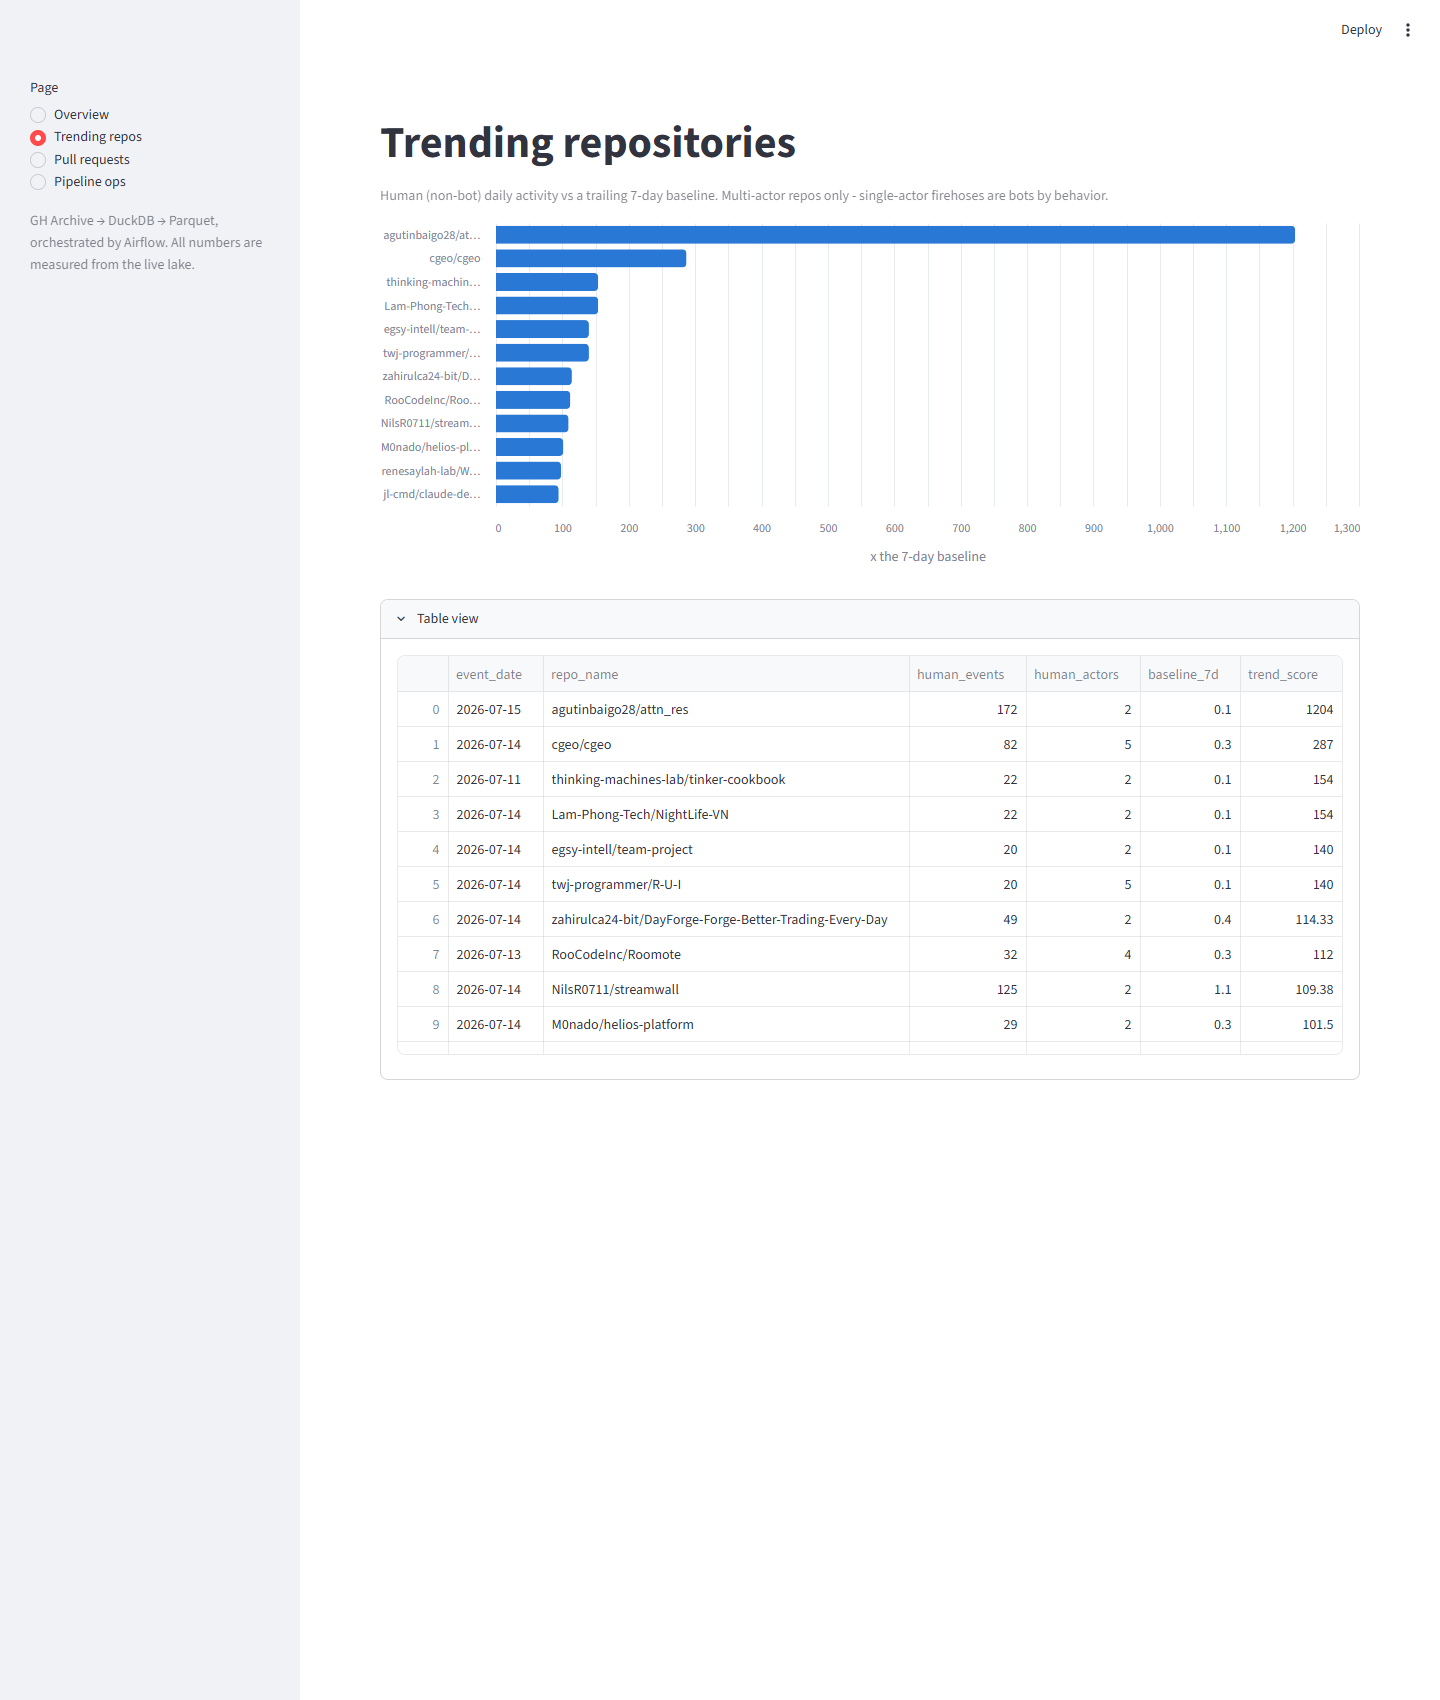
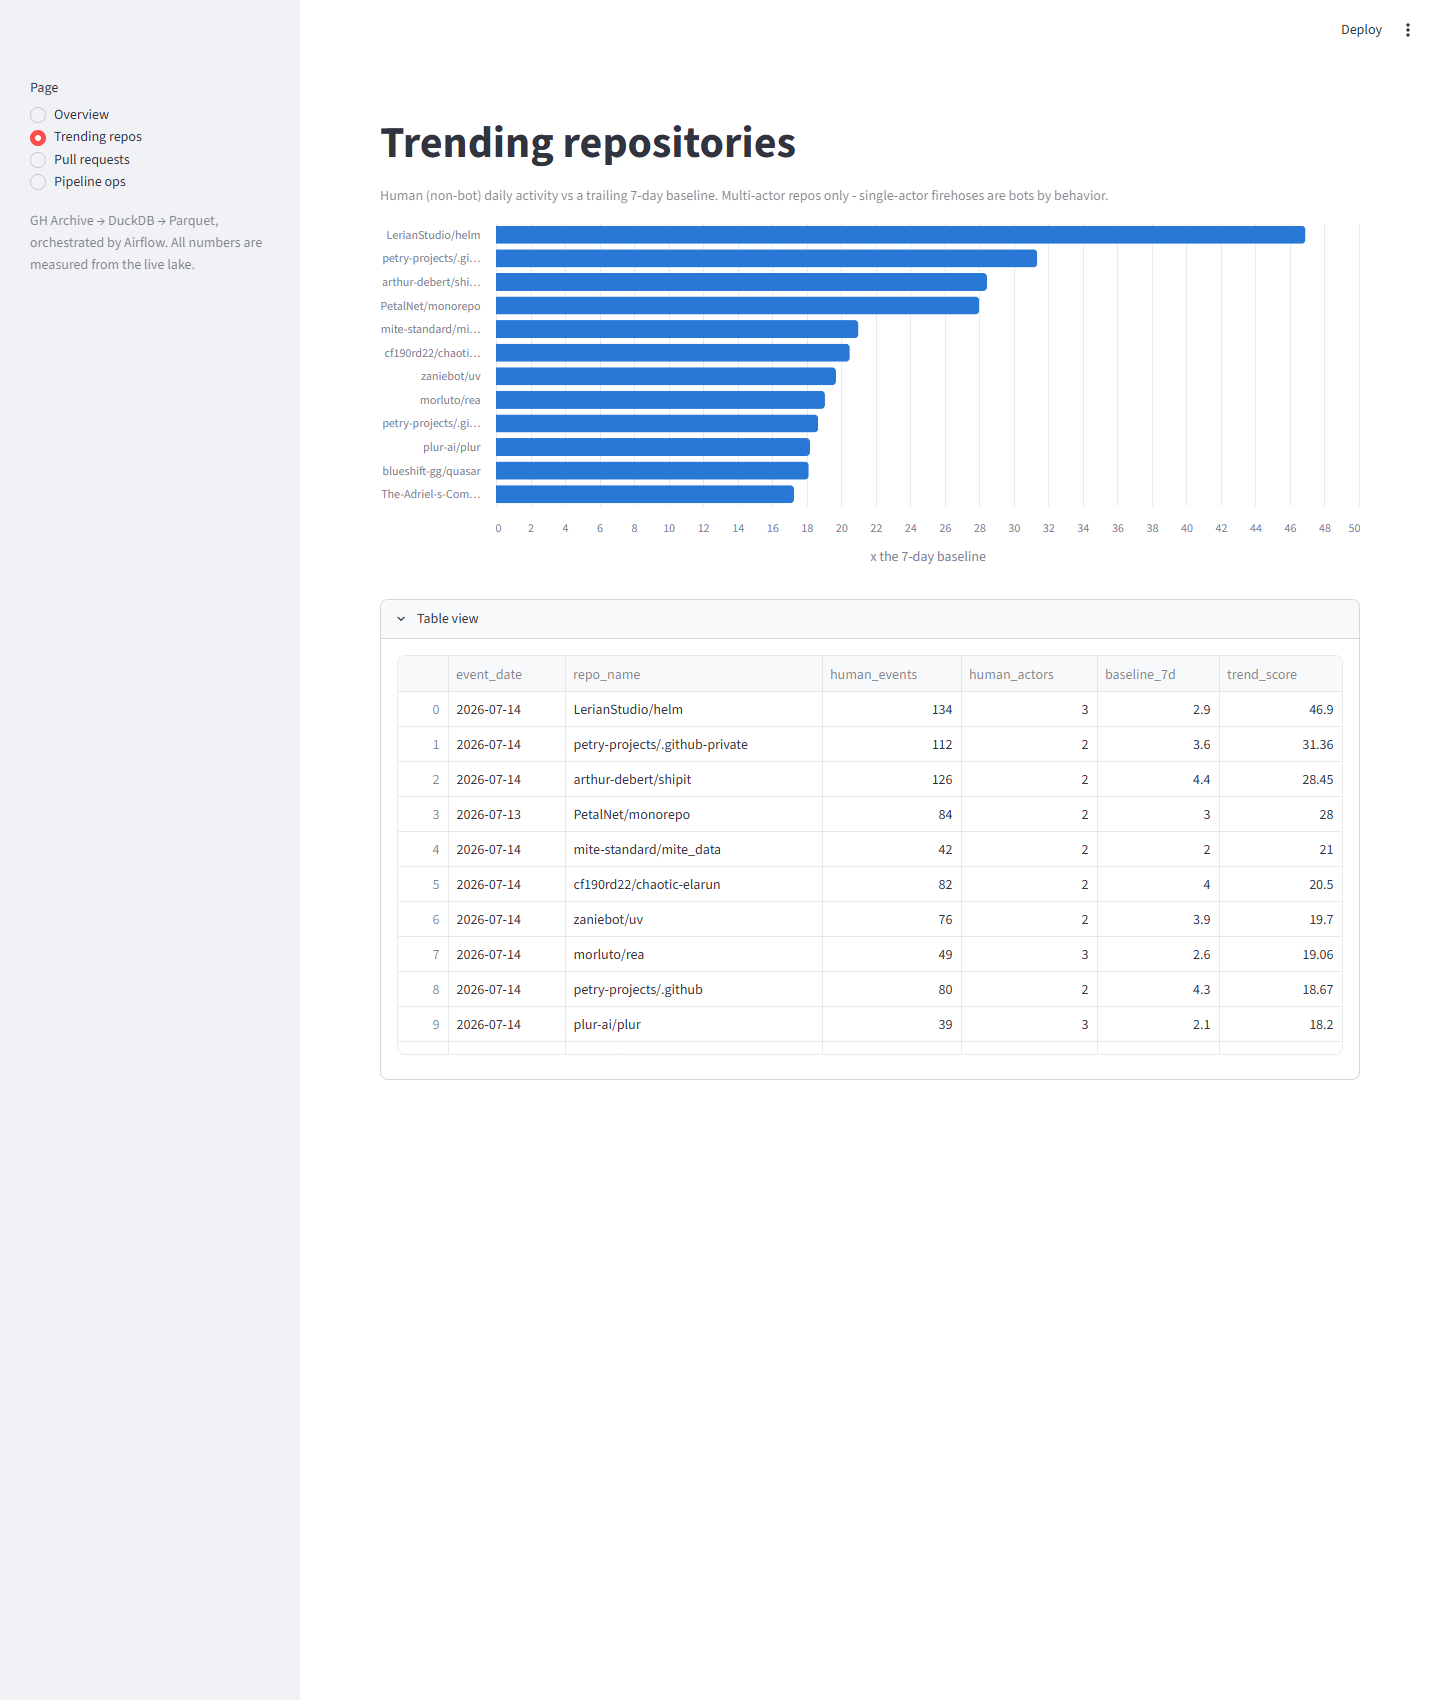
feat: trending baseline floor - score established repos, not newcomers
Watching real output showed the leaderboard dominated by brand-new repos
at 100-1200x off near-zero baselines (0.1 events/day). Real surges, but
newcomer detection, not "established repo breaking out".

- trending_min_baseline config (default 2.0 = 14+ human events in the
  prior week); scores require it, newcomers stay in the mart unscored
- new test: newcomer spike with complete window stays unscored while a
  steady repo scores 1.0
- rebuilt gold: leaderboard now tops at 46.9x off real baselines
  (was 1204x off 0.1); trending screenshot updated to match
- README documents the third trending guard alongside window_complete
  and sum/7-vs-avg

diff --git a/tests/test_aggregate.py b/tests/test_aggregate.py
@@ -166,6 +166,37 @@ def test_pr_lifecycle_counts_and_hours_open(cfg):
     assert d2["median_hours_open"] == pytest.approx(26.0)
 
 
+def test_trending_leaves_newcomers_unscored(cfg):
+    # An established repo provides 10 days of history (fixes the global
+    # min-date); a newcomer appears only on day 9 with a big spike. The
+    # newcomer's window is "complete" but its baseline (~0) is below the
+    # floor: it must appear in the mart WITHOUT a trend score, not at 100x.
+    for d in range(10):
+        day = DAY0 + timedelta(days=d)
+        rows = [
+            silver_row(f"{d}-{i}", day, repo_name="steady/repo",
+                       actor_login=f"user{i}") for i in range(30)
+        ]
+        if d == 9:
+            rows += [
+                silver_row(f"new-{i}", day, repo_name="brand/new",
+                           actor_login=f"newbie{i % 3}") for i in range(25)
+            ]
+        write_silver(cfg, day, rows)
+
+    build_gold(cfg=cfg)
+    rows = read_mart(cfg, "trending_repos", "event_date, repo_name")
+
+    newcomer = next(r for r in rows if r["repo_name"] == "brand/new")
+    assert newcomer["window_complete"]
+    assert newcomer["trend_score"] is None  # baseline below floor
+    steady_day9 = next(
+        r for r in rows
+        if r["repo_name"] == "steady/repo" and str(r["event_date"]) == "2026-07-10"
+    )
+    assert steady_day9["trend_score"] == pytest.approx(1.0)
+
+
 def test_trending_excludes_single_actor_firehoses(cfg):
     # 9 days x 30 events/day, all from ONE non-[bot] login: a bot by
     # behavior. The >= 2 human actors guard must exclude it.

diff --git a/pipeline/aggregate.py b/pipeline/aggregate.py
@@ -7,7 +7,9 @@ for hourly PR aggregates, and daily is the honest resolution for trends):
 - repo_activity_daily: per-repo daily activity (events, pushes, actors, bots)
 - trending_repos:      daily human (non-bot) activity vs trailing 7-day
                        baseline; scored only where the trailing window is
-                       fully inside the silver retention window
+                       fully inside the silver retention window AND the
+                       baseline clears a floor (newcomer repos surge off
+                       near-zero denominators otherwise)
 - pr_stats_daily:      PR lifecycle per day: opened/closed counts + hours-open
                        latency (join: opened event -> closed event on
                        repo+number). NOT merge stats: 2026 GH Archive slimmed
@@ -134,7 +136,10 @@ def build_gold(cfg: Config | None = None) -> GoldBuildResult:
             )
             SELECT event_date, repo_name, human_events, human_actors,
                    baseline_7d, window_complete,
-                   CASE WHEN window_complete AND baseline_7d > 0
+                   -- scored only against an established baseline: newcomers
+                   -- (baseline below the floor) stay in the mart unscored
+                   CASE WHEN window_complete
+                             AND baseline_7d >= {cfg.trending_min_baseline}
                         THEN human_events / baseline_7d END AS trend_score
             FROM scored
             WHERE human_events >= {cfg.trending_min_daily_events}

diff --git a/pipeline/config.py b/pipeline/config.py
@@ -52,6 +52,12 @@ class Config:
     # Trending mart: minimum human (non-bot) events per day before a repo is
     # scored — avoids huge trend ratios on tiny denominators.
     trending_min_daily_events: int = 20
+    # Minimum trailing-7-day baseline (events/day) before a trend_score is
+    # computed. Without it, brand-new repos with near-zero history dominate
+    # the leaderboard at 100x+ off denominators like 0.1 — real surges, but
+    # "newcomer detection", not "established repo breaking out". 2.0 means
+    # >= 14 human events across the prior week. Set to 0 to score newcomers.
+    trending_min_baseline: float = 2.0
 
     @property
     def bronze_dir(self) -> Path:

diff --git a/README.md b/README.md
@@ -150,6 +150,11 @@ failure to debug.
 until the full window is inside retained data (`window_complete`), and the baseline
 is `sum/7`, not `avg` — `avg` over only-active days inflates the denominator for
 bursty repos and suppresses exactly the spikes a trending mart exists to catch.
+A third guard came from watching real output: without a **baseline floor**, the
+leaderboard was dominated by brand-new repos at 100-1200x off near-zero denominators
+— real surges, but newcomer detection, not "established repo breaking out". Scores
+require `baseline_7d >= 2` (14+ human events in the prior week); newcomers stay in
+the mart, visibly unscored. One config value flips the semantics back.
 
 ## What the data forced (findings from looking, not assuming)
 